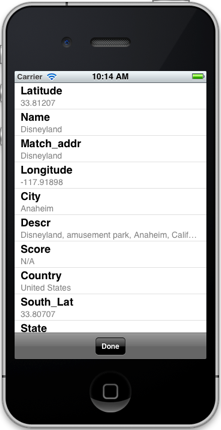
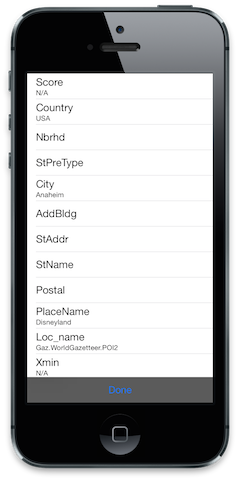
Updated screenshots and removed synthesize statements

diff --git a/GeocodingSample/Classes/GeocodingSampleViewController.h b/GeocodingSample/Classes/GeocodingSampleViewController.h
@@ -13,14 +13,7 @@
 #import <UIKit/UIKit.h>
 #import <ArcGIS/ArcGIS.h>
 
-@interface GeocodingSampleViewController : UIViewController <UISearchBarDelegate, AGSLocatorDelegate, AGSCalloutDelegate> {
-    
-    AGSMapView *_mapView;
-    UISearchBar *_searchBar;
-    AGSGraphicsLayer *_graphicsLayer;
-	AGSLocator *_locator;
-	AGSCalloutTemplate *_calloutTemplate;
-}
+@interface GeocodingSampleViewController : UIViewController <UISearchBarDelegate, AGSLocatorDelegate, AGSCalloutDelegate> 
 
 @property (nonatomic, strong) IBOutlet AGSMapView *mapView;
 @property (nonatomic, strong) IBOutlet UISearchBar *searchBar;

diff --git a/GeocodingSample/Classes/ResultsViewController.h b/GeocodingSample/Classes/ResultsViewController.h
@@ -13,11 +13,7 @@
 #import <UIKit/UIKit.h>
 
 
-@interface ResultsViewController : UIViewController {
-    NSDictionary *_results;
-    UITableView *_tableView;
-
-}
+@interface ResultsViewController : UIViewController 
 
 //results are the attributes of the result of the geocode operation
 @property (nonatomic, strong) NSDictionary *results;

diff --git a/GeocodingSample/Classes/ResultsViewController.m b/GeocodingSample/Classes/ResultsViewController.m
@@ -15,9 +15,6 @@
 
 @implementation ResultsViewController
 
-@synthesize results = _results;
-@synthesize tableView = _tableView;
-
 // in iOS7 this gets called and hides the status bar so the view does not go under the top iPhone status bar
 - (BOOL)prefersStatusBarHidden
 {
